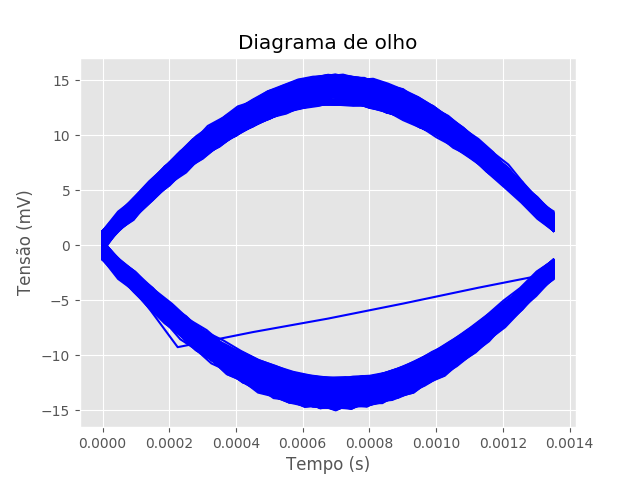
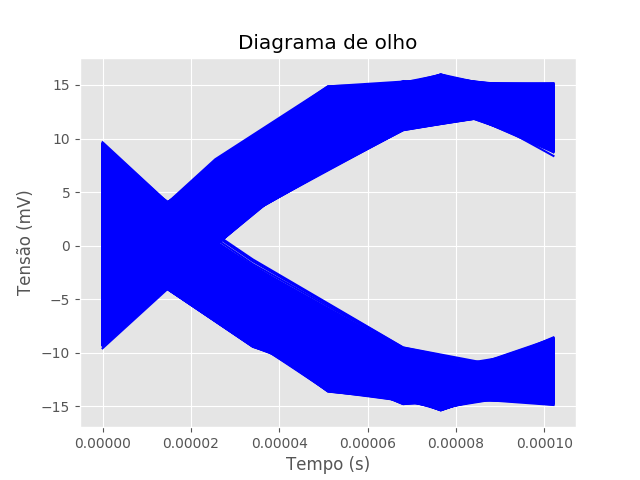
Fixed eye diagram

Changed region(s): [[0.0625, 0.1562, 0.9062, 0.875], [0.125, 0.9062, 0.9375, 0.9375], [0.0938, 0.625, 0.125, 0.6562]]

diff --git a/channel.py b/channel.py
@@ -75,7 +75,7 @@ class Channel():
         period = self.get_period()
         for i in range(len(zeros) - 1):
             wave = self.signal[zeros[i]:zeros[i+1]]
-            x = np.linspace(0, period, num=len(wave))
+            x = np.linspace(0, period/2, num=len(wave))
             plt.plot(x, wave, self.color)
         plt.xlabel("Tempo (s)")
         plt.ylabel("Tensão (mV)")
@@ -90,9 +90,10 @@ class Channel():
     def get_zeros(self):
         zeros = []
         norm_signal = self.signal/26
-        for i in range(len(norm_signal)):
-            if(-0.05 <= norm_signal[i] <= 0.05):
-                zeros.append(i)
+        for i in range(len(norm_signal)-1):
+            if(norm_signal[i] >= 0 and norm_signal[i+1] <= 0
+                or norm_signal[i] <= 0 and norm_signal[i+1] >= 0):
+                zeros.append(i)            
         zeros = np.array(zeros)
         return zeros
 

diff --git a/controller.py b/controller.py
@@ -22,6 +22,7 @@ class controller():
         ch1 = myrecording[:,0]
         ch2 = myrecording[:,1]
         self.signal = ch1
+        print(len(ch1))
         print(myrecording)
         self.ch = Channel(1, 'b-', self.signal, self.RATE, self.duration)
 
